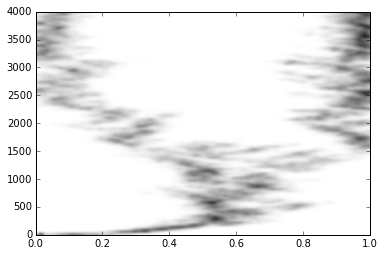
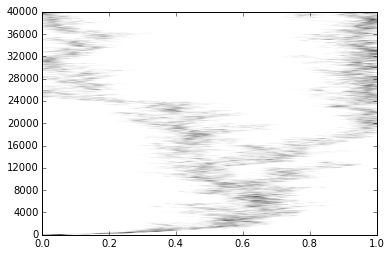
updated single population plots

diff --git a/cooperation_snowdrift.py b/cooperation_snowdrift.py
@@ -48,4 +48,4 @@ except: # run a sim and plot (if not loaded into ipython)
     w=10 # 'strength' of selection
     muts = evolve(gsl_rng, 40000, 1000, 0.01, 0.1, 0.005, 6.0*w, -1.4*w, 4.56*w, -1.6*w, grain=10)
 
-    plotEvolve(muts)
+    plotEvolve(muts,vmax=500,tmult=10)
